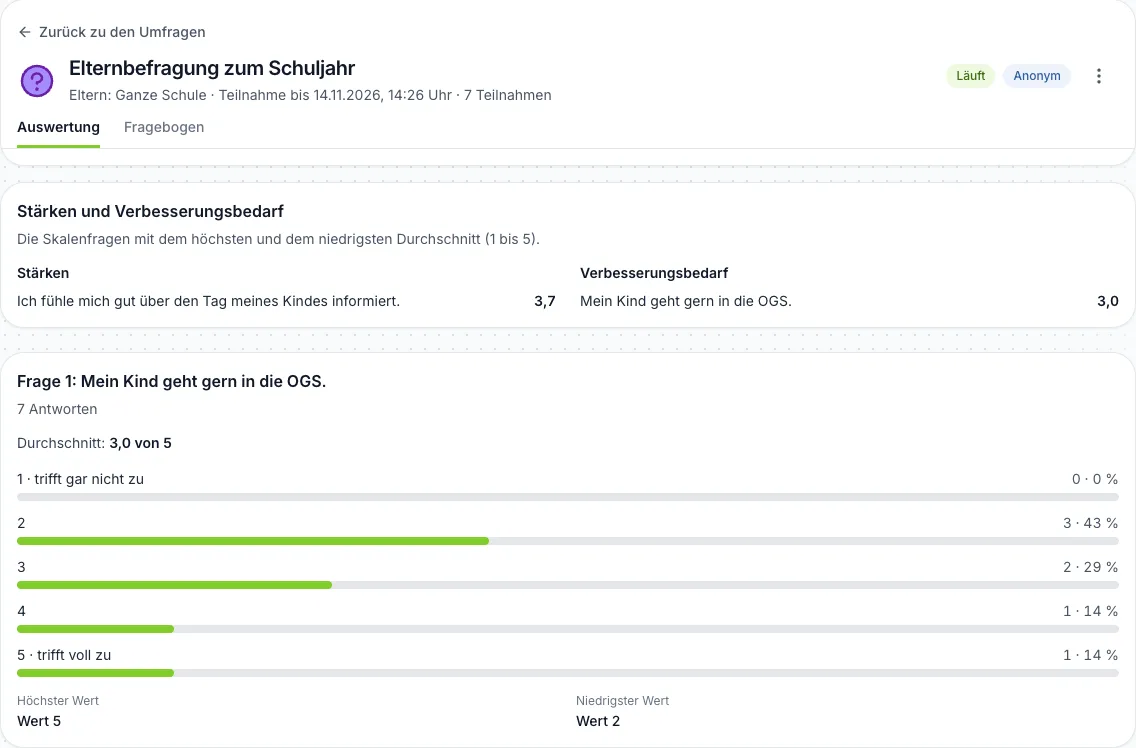
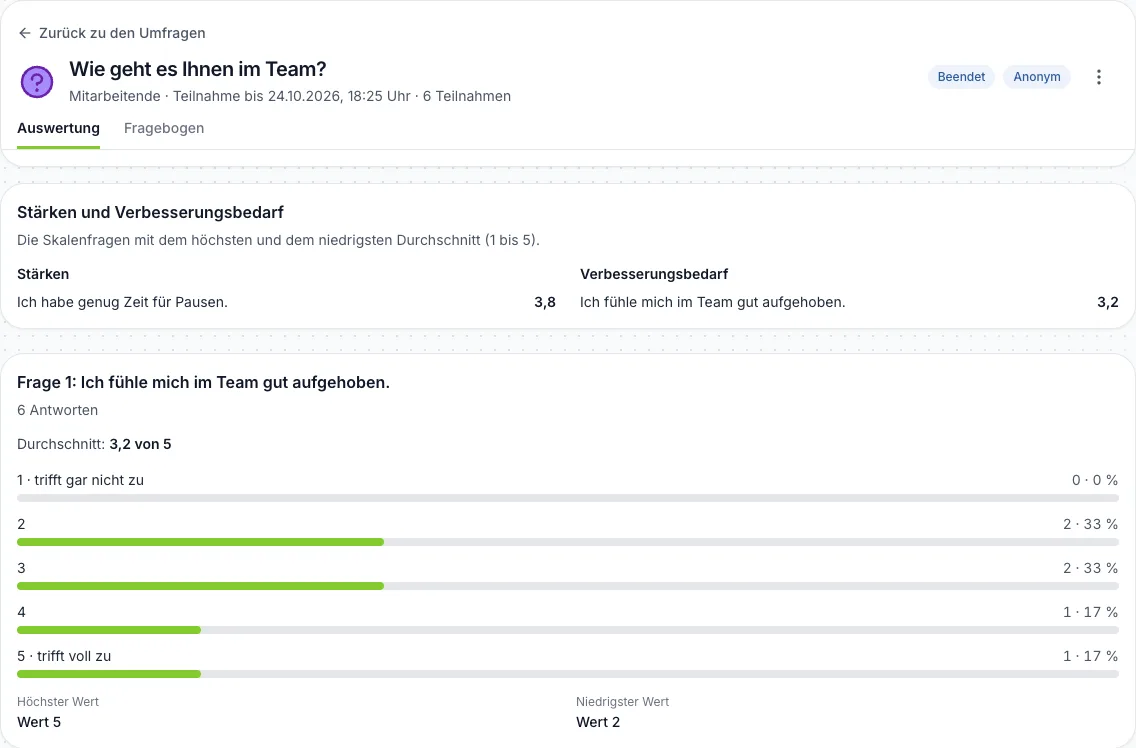
docs: Hilfe-Bild der Auswertung zeigt eine beendete anonyme Umfrage (#4781)

diff --git a/frontend/src/components/help/help-content.ts b/frontend/src/components/help/help-content.ts
@@ -4192,7 +4192,7 @@ function leadSurveysTopic(): HelpTopic {
     ],
     image: "/help/screens/umfrage-auswertung.webp",
     imageAlt:
-      "Auswertung einer Umfrage mit Stärken, Verbesserungsbedarf und der Verteilung je Frage.",
+      "Auswertung einer beendeten anonymen Umfrage mit Stärken, Verbesserungsbedarf und der Verteilung je Frage.",
     related: [
       HELP_TOPICS.leadParentSurvey,
       HELP_TOPICS.staffSurveys,
